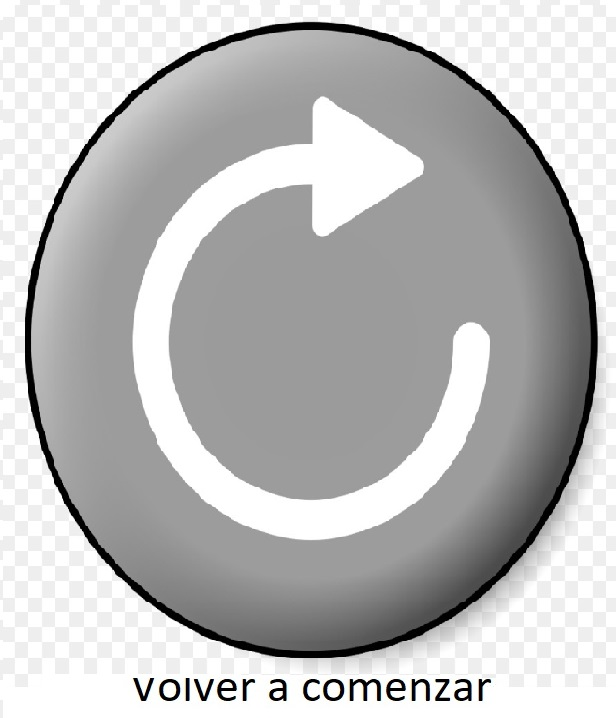
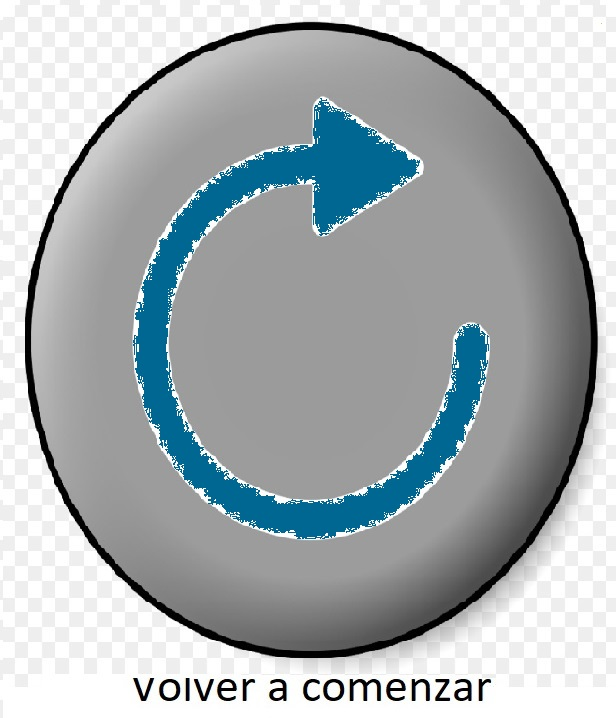
mejoras en el juego y animacion en el css

Changed region(s): [[0.2159, 0.1226, 0.8019, 0.766]]

diff --git a/assets/js/piedraPapelTijeras.js b/assets/js/piedraPapelTijeras.js
@@ -55,19 +55,22 @@ function jugarPiedraPapelTijera(jugadaUsuario){
    document.getElementById("jugada").innerHTML="La computadora: "+cantGanadaComputadora+" y el usuario: "+cantGanadaUsuario;
    if(cantGanadaComputadora===3){
    
-        document.getElementById("resultado").innerHTML="Perdiste el juego "+ nombreJugador.value +" Para la proxima";
+        document.getElementById("resultado").innerHTML="Perdiste el juego "+ nombreJugador.value +" para la proxima";
     } 
     if(cantGanadaUsuario===3){
         
-        document.getElementById("resultado").innerHTML="Ganaste "+ nombreJugador.value +" Felicitaciones...!!!"
+        document.getElementById("resultado").innerHTML="Ganaste "+ nombreJugador.value +" Felicitaciones...!!!";
     }
 }
 
 function reinicioJuego(){
+    cantGanadaComputadora=0;
+    cantGanadaUsuario=0;
     document.getElementById("jugadaPC").innerHTML="";
     document.getElementById("jugadaUsuario").innerHTML="";
     document.getElementById("jugada").innerHTML="";
     document.getElementById("resultado").innerHTML="";
+    
 }
 
     // Eleccion del Usuario

diff --git a/assets/css/styles.css b/assets/css/styles.css
@@ -1,5 +1,6 @@
 *{
-    border-color: rgb(236, 195, 146);
+    background-color: rgb(167, 147, 122) ;
+    box-sizing: border-box;
 }
 h1{
     font-size: 35px;
@@ -9,6 +10,7 @@ h1{
 .contenedor{
     max-width: 420px;
     margin: 0 auto;
+    margin-top: 16px;
     display: flex;
 }
 #grupo-btn{
@@ -18,4 +20,17 @@ h1{
 }
 #grupo-btn > button > img{
     width: 100%;
+    cursor: pointer;
+    animation-name: rotacion;
+    animation-duration: 10s;
+}
+/*En este item se agranda los botones y cambia de fondo */
+#grupo-btn>button:hover{
+    transform: scale(1.5);
+    background-color: rgb(82, 109, 109);
+}
+/*Rota las imagen 360grados*/
+@keyframes rotacion{
+    from{transform: rotateZ(0deg);}
+    to{transform: rotateZ(360deg);}
 }

diff --git a/index.html b/index.html
@@ -8,7 +8,8 @@
 </head>
 <body>
     <h1>Piedra Papel o Tijera</h1>
-    
+    <a href="https://upload.wikimedia.org/wikipedia/commons/1/1d/Piedra_papel_tijeras.jpg">Cómo se juega</a>
+    <br>
     <p>Nombre del jugador: </p>
     <input id="nombre" type="text">
     <br>

diff --git a/Reglas de Juego.md b/Reglas de Juego.md
@@ -1,15 +1,39 @@
 ## Piedra Papel o Tijera
-#Cómo se juega
+# Cómo se juega 🚀
 Los jugadores elije una de las tres tipo de imagen piedra papel o tijera que es representada señales de mano si eligimos:
 
-*Piedra: un puño cerrado.
-*Papel: todos los dedos extendidos, con la palma de la mano de lado, mirando hacia abajo o hacia arriba; en algunas variantes, se coloca la mano en forma de garra o bolsa envolvente.
-*Tijera: dedos índice y medio extendidos y separados formando una «V».
+* Piedra: un puño cerrado.
+* Papel: todos los dedos extendidos, con la palma de la mano de lado, mirando hacia abajo o hacia arriba; en algunas variantes, se coloca la mano en forma de garra o bolsa envolvente.
+* Tijera: dedos índice y medio extendidos y separados formando una «V».
 
 El objetivo es vencer al oponente seleccionando el arma que gana, según las siguientes reglas:
 
-*La piedra aplasta la tijera. (Gana la piedra.)
-*La tijera corta el papel. (Gana la tijera.)
-*El papel envuelve la piedra. (Gana el papel.)
-*En caso de empate (que dos jugadores elijan el mismo elemento), se juega otra vez.
-*A veces, esto se repite hasta que uno de los jugadores gana con tres puntos,  y será entonces el vencedor del juego.
+* La piedra aplasta la tijera. (Gana la piedra.)
+* La tijera corta el papel. (Gana la tijera.)
+* El papel envuelve la piedra. (Gana el papel.)
+* En caso de empate (que dos jugadores elijan el mismo elemento), se juega otra vez.
+* A veces, esto se repite hasta que uno de los jugadores gana con tres puntos,  y será entonces el vencedor del juego.
+
+![reglas](https://upload.wikimedia.org/wikipedia/commons/1/1d/Piedra_papel_tijeras.jpg)
+
+# Desarrollo 📋
+Se fue desarrollando este juego en colaboración con el curso de Argentina Programa 4.0.
+Con conocimento adquirido en el curso de:
+* html
+* css con animaciones
+* DOM
+* JavaScript
+
+## Construido con 🛠
+
+_las herramientas que se utilizaron para crear el proyecto_
+* [Flexbox](https://css-tricks.com/snippets/css/a-guide-to-flexbox/) - guia de como usar en css flexbox
+* [DOM](https://www.w3schools.com/js/js_htmldom.asp) - guia de como utilizar JavaScript HTML DOM
+* [Html](https://www.w3schools.com/html/default.asp) - Tutorial de uso html
+* [JavaScript](https://www.w3schools.com/js/default.asp) - Tutorial de JavaScript
+* [Animación](https://developer.mozilla.org/en-US/docs/Web/CSS/CSS_transitionsUsing_CSS_transitions) -animación css
+
+## Autor ✒
+
+* **Nicolás Herrera** - *Trabajo Inicial* - [NicolasHerrera](https://github.com/Nicolas114188/practico2.git)
+
